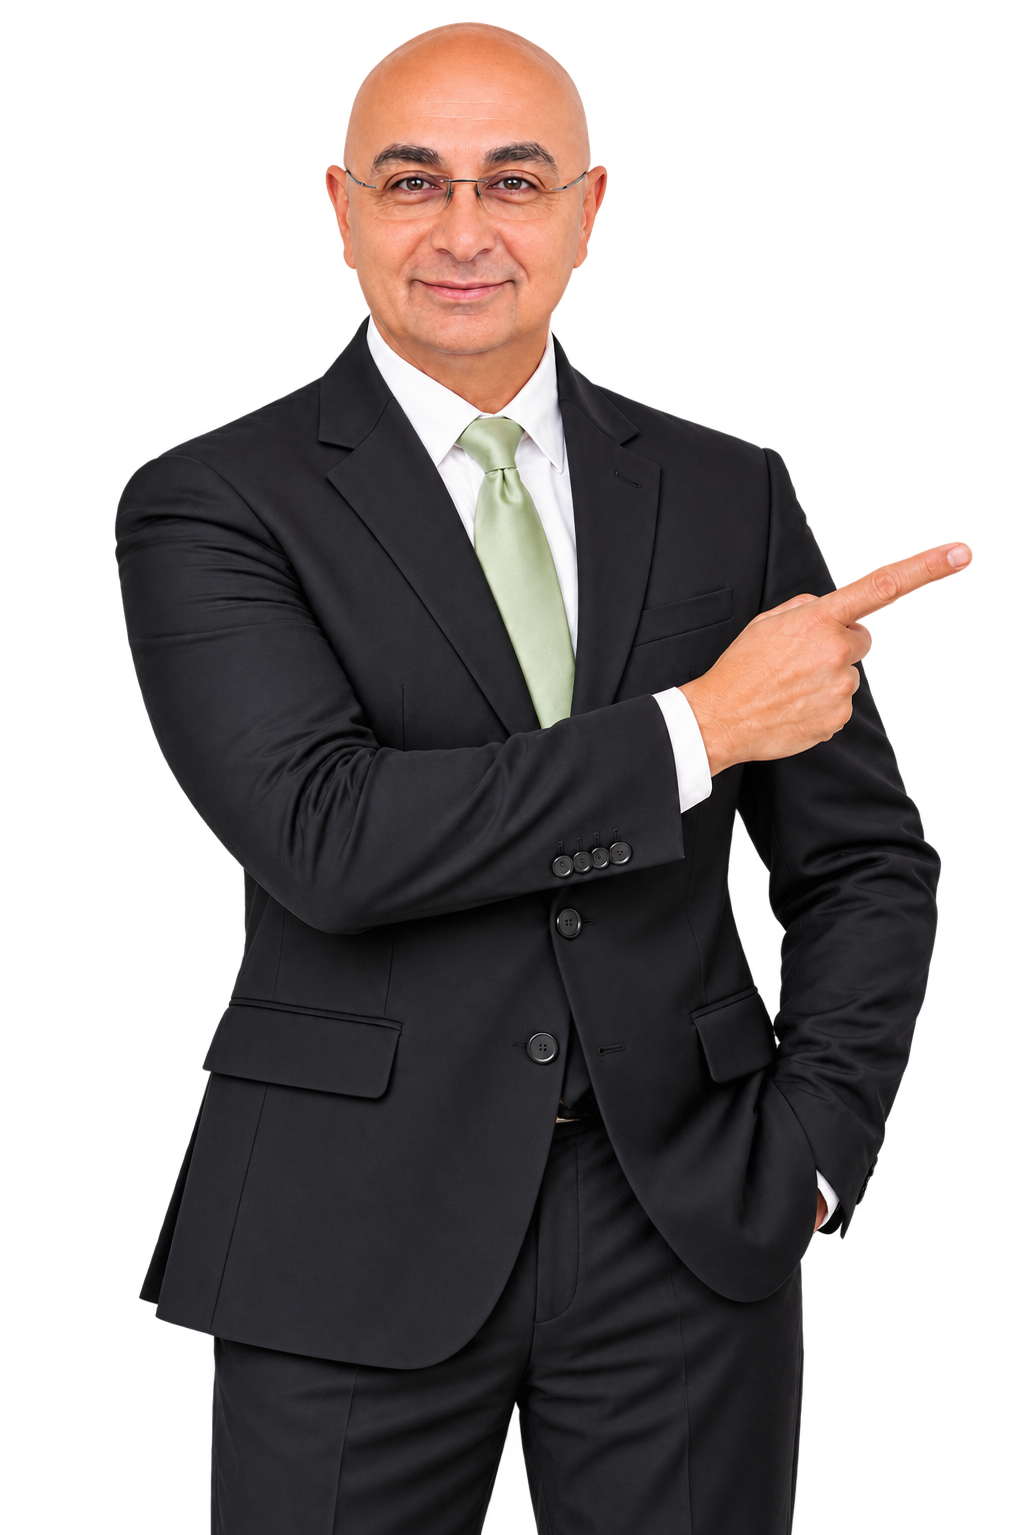
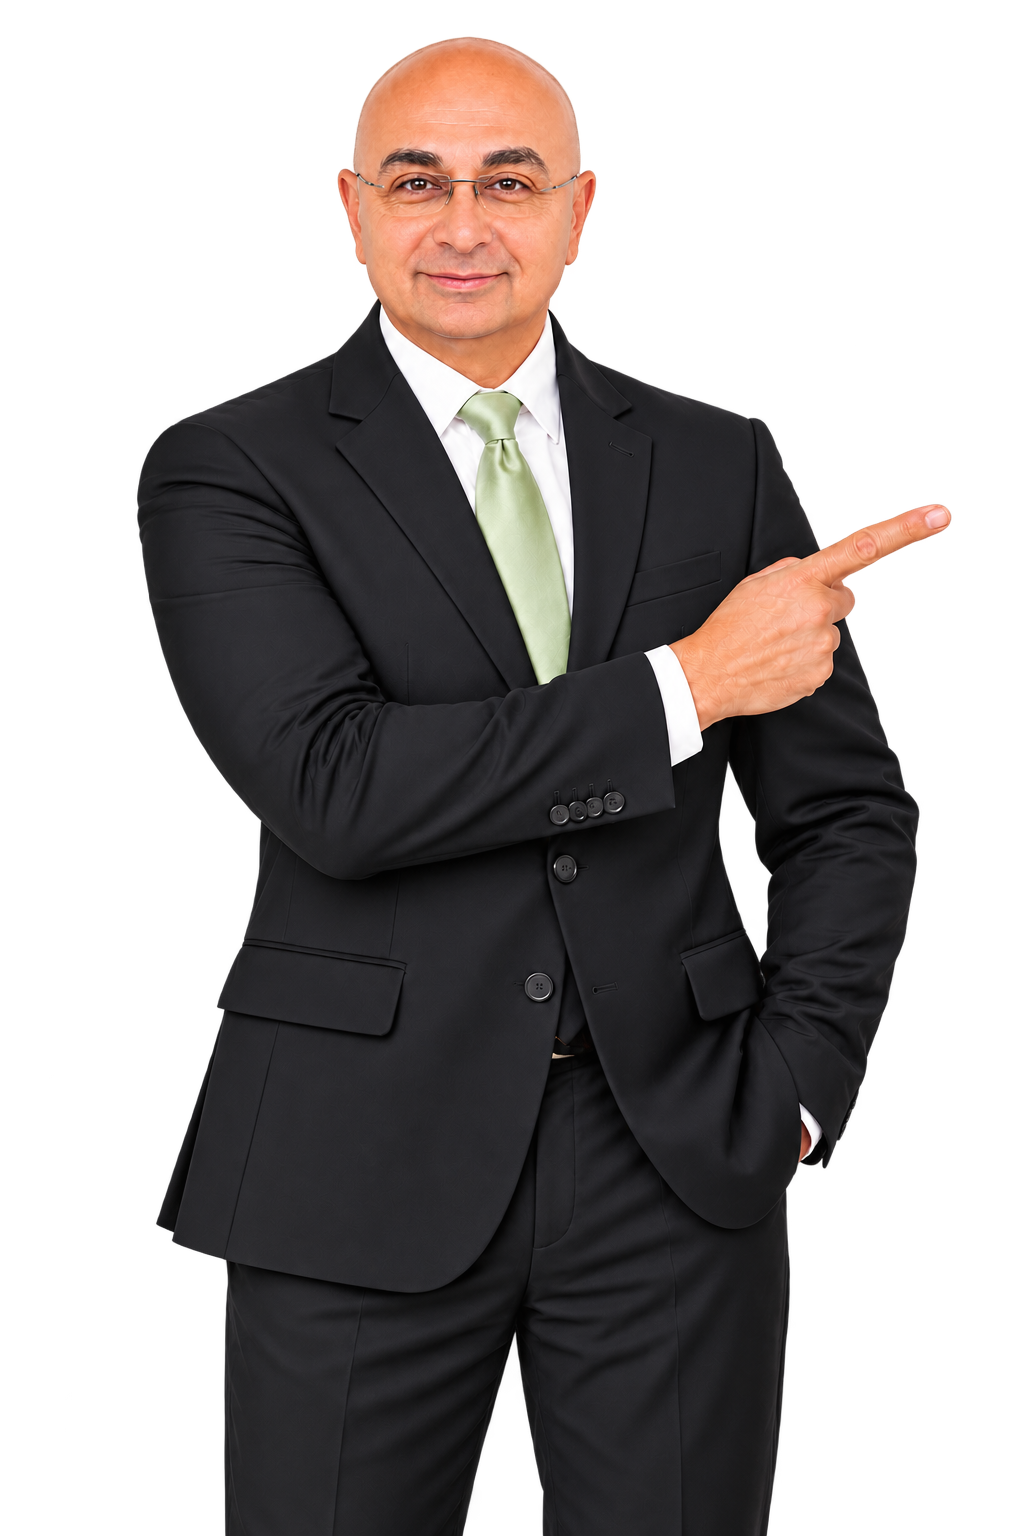
feat: add new Abe image and update AboutHero component layout

diff --git a/src/app/ask-abe/page.tsx b/src/app/ask-abe/page.tsx
@@ -1,16 +1,19 @@
 import type { Metadata } from "next";
 import Image from "next/image";
+import Link from "next/link";
 import {
+  BadgeDollarSign,
   Building2,
   CircleDollarSign,
-  Ellipsis,
+  HandCoins,
   House,
+  Landmark,
   RefreshCw,
+  ShieldCheck,
   UserRound,
 } from "lucide-react";
 
 import Container from "@/components/common/Container";
-import LoanProgramNav from "@/components/loan-programs/LoanProgramNav";
 import StartAbeConversationButton from "@/components/chat/StartAbeConversationButton";
 import ValueProps from "@/components/home/ValueProps";
 
@@ -37,40 +40,57 @@ const helpOptions = [
   {
     label: "Buy a home",
     icon: House,
+    url: "/loan-programs/purchase-loans",
   },
   {
     label: "Refinance",
     icon: RefreshCw,
+    url: "/loan-programs/refinance-loans",
   },
   {
-    label: "Access home equity",
-    icon: CircleDollarSign,
-  },
-  {
-    label: "Investment property",
-    icon: Building2,
-  },
-  {
-    label: "I'm self-employed",
+    label: "Self-Employed",
     icon: UserRound,
+    url: "/loan-programs/self-employed-loans",
   },
   {
-    label: "Something else",
-    icon: Ellipsis,
+    label: "DSCR",
+    icon: Building2,
+    url: "/loan-programs/dscr-loans",
+  },
+  {
+    label: "FHA",
+    icon: Landmark,
+    url: "/loan-programs/fha-loans",
+  },
+  {
+    label: "VA",
+    icon: ShieldCheck,
+    url: "/loan-programs/va-loans",
+  },
+  {
+    label: "Reverse Mortgage",
+    icon: HandCoins,
+    url: "/loan-programs/reverse-mortgages",
+  },
+  {
+    label: "Home Equity",
+    icon: BadgeDollarSign,
+    url: "/loan-programs/home-equity-heloc",
   },
 ];
 
 export default function AskAbePage() {
   return (
     <div className="min-h-screen">
-      <LoanProgramNav className="bg-white" />
-
-      <Container className="py-6 sm:py-10 lg:py-14">
+      <Container className="pt-6 sm:pt-10 lg:pt-14">
         <section className="mx-auto w-full max-w-3xl">
           <div className="rounded-[28px] border border-slate-200/80 bg-surface px-5 py-8 shadow-sm sm:px-8 sm:py-10 lg:px-12 lg:py-12">
             {/* Ask Abe Badge */}
             <span className="inline-flex items-center gap-3 rounded-full bg-mint px-4 py-2 font-mono text-xs font-semibold uppercase tracking-[0.12em] text-brand-dark">
-              <span className="h-2 w-2 rounded-full bg-brand" aria-hidden="true"/>
+              <span
+                className="h-2 w-2 rounded-full bg-brand"
+                aria-hidden="true"
+              />
               Ask Abe
             </span>
 
@@ -114,8 +134,12 @@ export default function AskAbePage() {
               </h2>
 
               <div className="mt-6 grid grid-cols-2 gap-2 md:gap-4">
-                {helpOptions.map(({ label, icon: Icon }) => (
-                  <button key={label} type="button" className="group flex min-h-[76px] items-center gap-2 md:gap-4 rounded-2xl border border-slate-200 bg-white p-2 md:p-4 text-left transition-all hover:-translate-y-0.5 hover:border-brand/40 hover:shadow-sm focus:outline-none focus:ring-2 focus:ring-brand/30">
+                {helpOptions.map(({ label, icon: Icon, url }) => (
+                  <Link
+                    key={label}
+                    href={url}
+                    className="group flex min-h-[76px] items-center gap-2 rounded-2xl border border-slate-200 bg-white p-2 text-left transition-all hover:-translate-y-0.5 hover:border-brand/40 hover:shadow-sm focus:outline-none focus:ring-2 focus:ring-brand/30 md:gap-4 md:p-4"
+                  >
                     <span className="flex h-10 w-10 shrink-0 items-center justify-center rounded-full bg-mint text-brand transition-transform group-hover:scale-105">
                       <Icon
                         className="h-6 w-6"
@@ -127,7 +151,7 @@ export default function AskAbePage() {
                     <span className="text-[16px] font-medium text-navy sm:text-[17px]">
                       {label}
                     </span>
-                  </button>
+                  </Link>
                 ))}
               </div>
             </div>
@@ -138,21 +162,7 @@ export default function AskAbePage() {
             </div>
 
             {/* Trust Row */}
-            <div
-              className="
-                mt-6
-                flex
-                flex-wrap
-                items-center
-                justify-center
-                gap-x-3
-                gap-y-1
-                text-center
-                text-sm
-                text-muted
-                sm:text-base
-              "
-            >
+            <div className="mt-6 flex flex-wrap items-center justify-center gap-x-3 gap-y-1 text-center text-sm text-muted sm:text-base">
               <span>About 90 seconds</span>
 
               <span
@@ -170,10 +180,9 @@ export default function AskAbePage() {
               <span>Private</span>
             </div>
           </div>
-
-          
         </section>
       </Container>
+
       <ValueProps />
     </div>
   );

diff --git a/src/components/about-abe/AboutHero.tsx b/src/components/about-abe/AboutHero.tsx
@@ -1,28 +1,74 @@
+import Image from "next/image";
+
 import Container from "@/components/common/Container";
 import { aboutAbe } from "@/data/about-abe";
 
 export default function AboutHero() {
   return (
-    <section className="bg-surface">
-      <Container className="py-12 sm:py-16 lg:py-20">
-        <div className="mt-7 max-w-3xl sm:mt-8">
-          <p className="text-sm font-semibold uppercase tracking-wider text-brand">
-            {aboutAbe.eyebrow}
-          </p>
-
-          <h1 className="mt-2 text-3xl font-bold tracking-tight text-navy sm:text-4xl lg:text-5xl">
-            {aboutAbe.title}
-          </h1>
-
-          <div className="mt-6 space-y-5">
-            {aboutAbe.paragraphs.map((paragraph) => (
-              <p
-                key={paragraph}
-                className="max-w-2xl text-base leading-7 text-muted sm:text-lg"
-              >
-                {paragraph}
+    <section className="w-full overflow-hidden bg-surface">
+      <Container className="py-10 pb-0 sm:py-14 lg:py-0">
+        <div
+          className="
+            grid
+            grid-cols-1
+            items-center
+            gap-8
+            lg:grid-cols-[55%_45%]
+            lg:gap-10
+            lg:min-h-[500px]
+          "
+        >
+          {/* Content */}
+          <div className="order-1 py-2 lg:py-12">
+            <div className="max-w-2xl">
+              <p className="text-sm font-semibold uppercase tracking-wider text-brand">
+                {aboutAbe.eyebrow}
               </p>
-            ))}
+
+              <h1 className="mt-2 text-3xl font-bold tracking-tight text-navy sm:text-4xl lg:text-5xl">
+                {aboutAbe.title}
+              </h1>
+
+              <div className="mt-6 space-y-5">
+                {aboutAbe.paragraphs.map((paragraph) => (
+                  <p
+                    key={paragraph}
+                    className="max-w-2xl text-base leading-7 text-muted sm:text-lg"
+                  >
+                    {paragraph}
+                  </p>
+                ))}
+              </div>
+            </div>
+          </div>
+
+          {/* Abe Image */}
+          <div
+            className="
+              order-2
+              flex
+              w-full
+              items-center
+              justify-center
+              lg:h-[500px]
+            "
+          >
+            <Image
+              src="/images/abe/abe-about.png"
+              alt="Abe Hakawati"
+              width={600}
+              height={500}
+              priority
+              className="
+                h-auto
+                w-auto
+                max-h-[320px]
+                max-w-full
+                object-contain
+                sm:max-h-[400px]
+                lg:max-h-[500px]
+              "
+            />
           </div>
         </div>
       </Container>

diff --git a/src/components/loan-programs/LoanProgramNav.tsx b/src/components/loan-programs/LoanProgramNav.tsx
@@ -23,7 +23,6 @@ const items: LoanProgramNavItem[] = [
     label: "Home Equity / HELOC",
     href: "/loan-programs/home-equity-heloc",
   },
-  { label: "Ask Abe", href: "/ask-abe" },
 ];
 
 type LoanProgramNavProps = {
